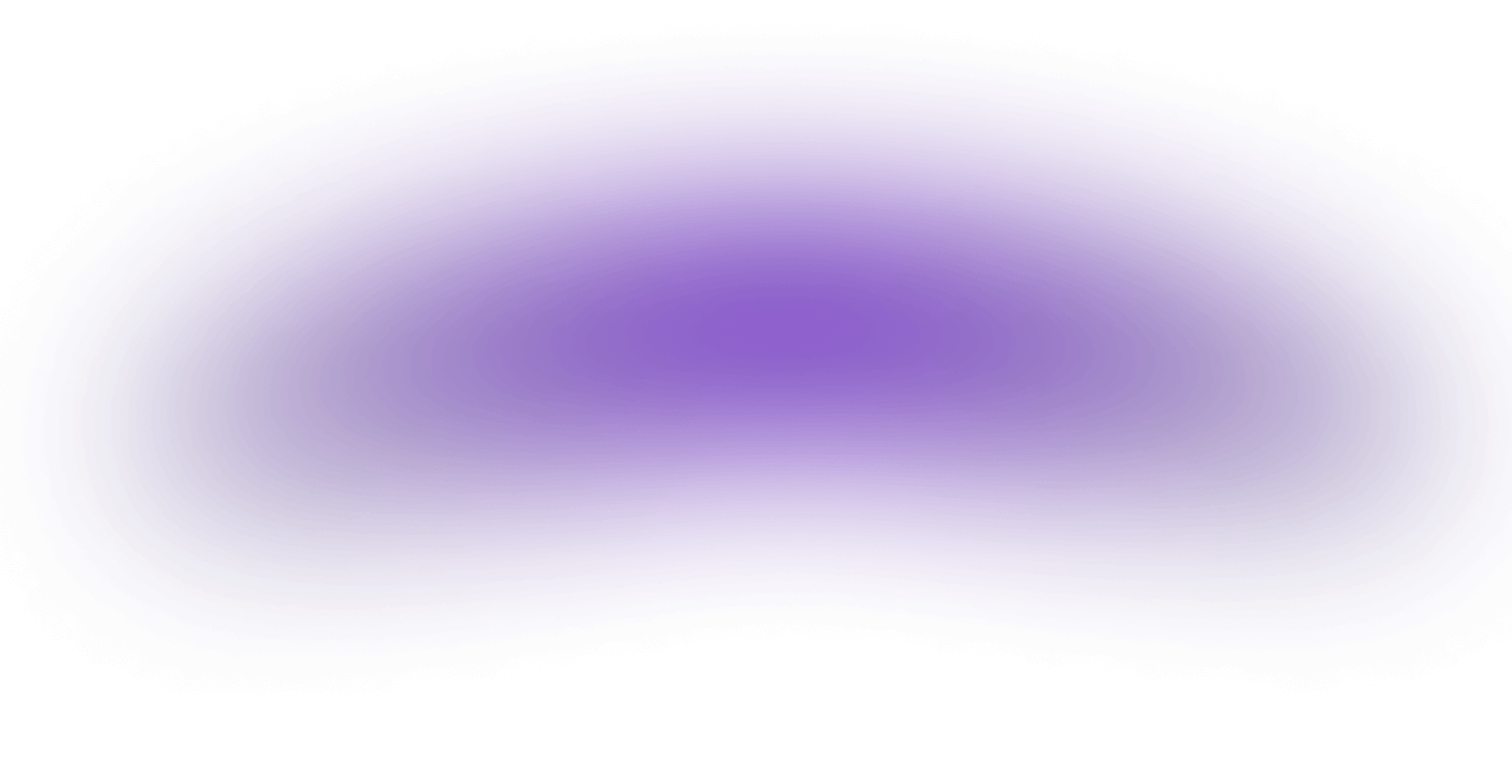
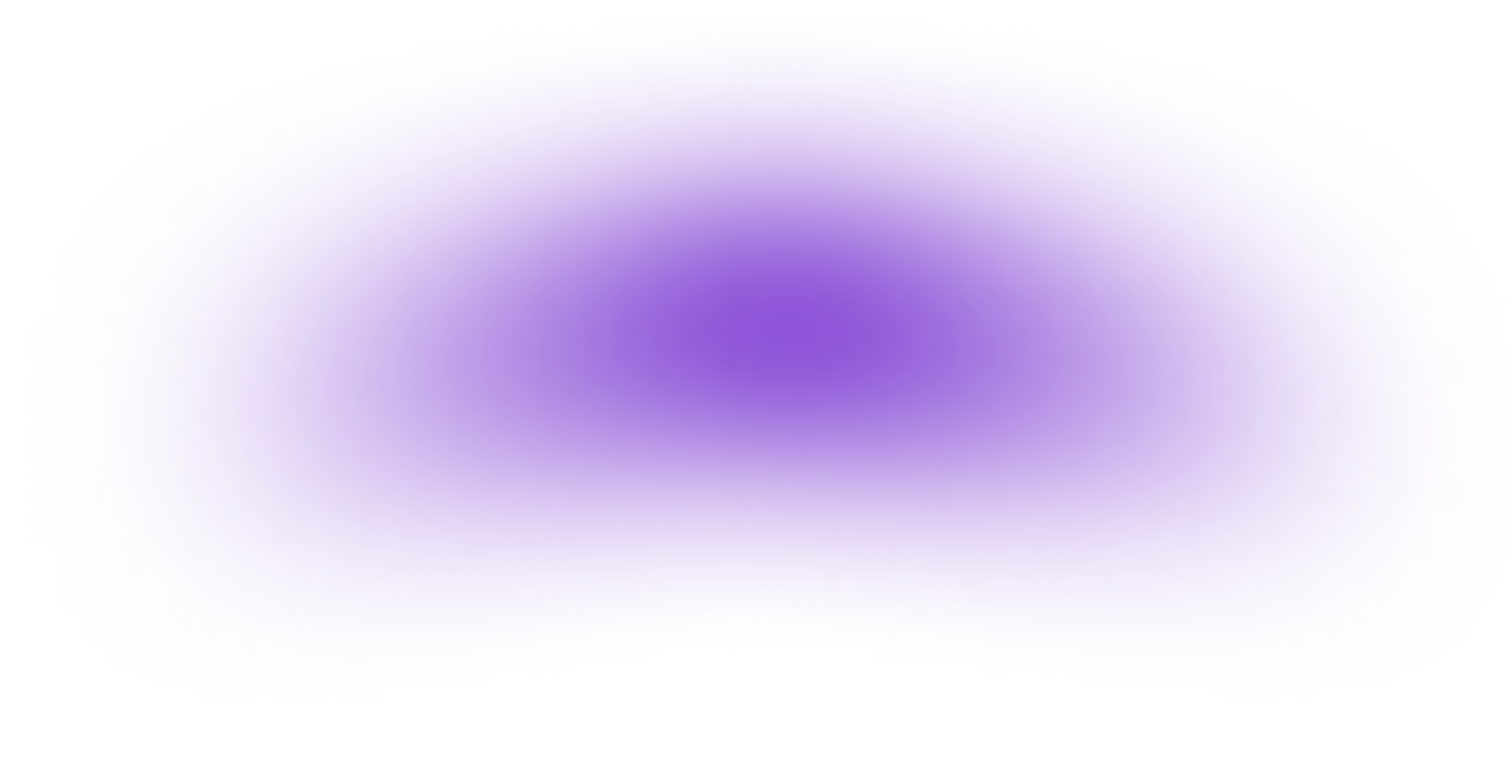
adjust background spacing

Changed region(s): [[0.6528, 0.3026, 0.9636, 0.6658], [0.0933, 0.3329, 0.4041, 0.6961]]

diff --git a/src/components/pages/Home/GameStack/index.jsx b/src/components/pages/Home/GameStack/index.jsx
@@ -5,7 +5,7 @@ function GameStack() {
   return (
     <section
       id="dGame-stack"
-      className={`max-w-screen-2xl m-auto px-4 py-20 sm:py-20 lg:py-20 sm:px-6 lg:px-20 mx-auto violet-background2`}
+      className={` m-auto px-4 py-20 sm:py-20 md:py-20 lg:py-96 sm:px-6 lg:px-20 mx-auto violet-background2`}
     >
       <div className="text-center">
         <h2 className="gradient-text-2 text-4xl md:text-5xl lg:text-6xl leading-[1.5] md:leading-[1.6] font-semibold">

diff --git a/src/App.css b/src/App.css
@@ -68,7 +68,7 @@ background-clip: text;
 
 .violet-background {
   background-image: url("/public/images/violet-bg.png");
-  background-size: cover;
+  background-size: contain;
   background-repeat: no-repeat;
   background-position: center;
 }
@@ -77,6 +77,7 @@ background-clip: text;
   background-size: cover;
   background-repeat: no-repeat;
   background-position: center;
+  
 }
 
 .timeline-background {

diff --git a/src/components/pages/Careers/components/Jobs/index.jsx b/src/components/pages/Careers/components/Jobs/index.jsx
@@ -21,7 +21,6 @@ function Jobs(props) {
     <div className="lg:px-20 my-20">
        {sortedJobs.map((item, index) => (
         <div key={index}>
-          {/* Your job rendering logic */}
           <div className="py-10">
             <span className="fade-border"></span>
           </div>

diff --git a/src/components/pages/Careers/components/Filter/SearchLocation.jsx b/src/components/pages/Careers/components/Filter/SearchLocation.jsx
@@ -9,9 +9,7 @@ const SearchLocation = () => {
   };
 
   const handleItemClick = (item) => {
-    // Handle the selected item (you can perform an action here)
     console.log(`Selected: ${item}`);
-    // Close the dropdown after selecting an item
     setIsDropdownOpen(false);
   };
 
